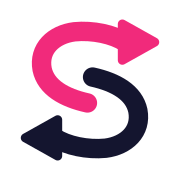
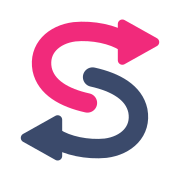
fix(web): lighten swap mark second arrow to mid navy for dark surfaces

Changed region(s): [[0.1111, 0.3611, 0.8333, 0.8889]]

diff --git a/apps/web/src/components/SwapIcon.tsx b/apps/web/src/components/SwapIcon.tsx
@@ -1,5 +1,5 @@
-/**
- * Swapify brand mark: two hook-arrows in 180° rotational symmetry — the
+/**
+ * Swapify brand mark: two hook-arrows in 180Â° rotational symmetry â€” the
  * completed-trade glyph. Fixed brand colors (pink + navy).
  */
 export default function SwapIcon({ className = "h-8 w-8" }: { className?: string }) {
@@ -25,15 +25,15 @@ export default function SwapIcon({ className = "h-8 w-8" }: { className?: string
           <path
             d="M31 37 C22 35 15 31 13.5 24 C12 16 18 10.5 26 9.5 C33 8.8 41 10.5 45.5 13.5"
             fill="none"
-            stroke="#14152F"
+            stroke="#3B4A6B"
             strokeWidth="7.5"
             strokeLinecap="round"
             strokeLinejoin="round"
           />
           <path
             d="M44.5 20.5 L57 13.5 L44.5 6.5 Z"
-            fill="#14152F"
-            stroke="#14152F"
+            fill="#3B4A6B"
+            stroke="#3B4A6B"
             strokeWidth="3.5"
             strokeLinejoin="round"
           />
